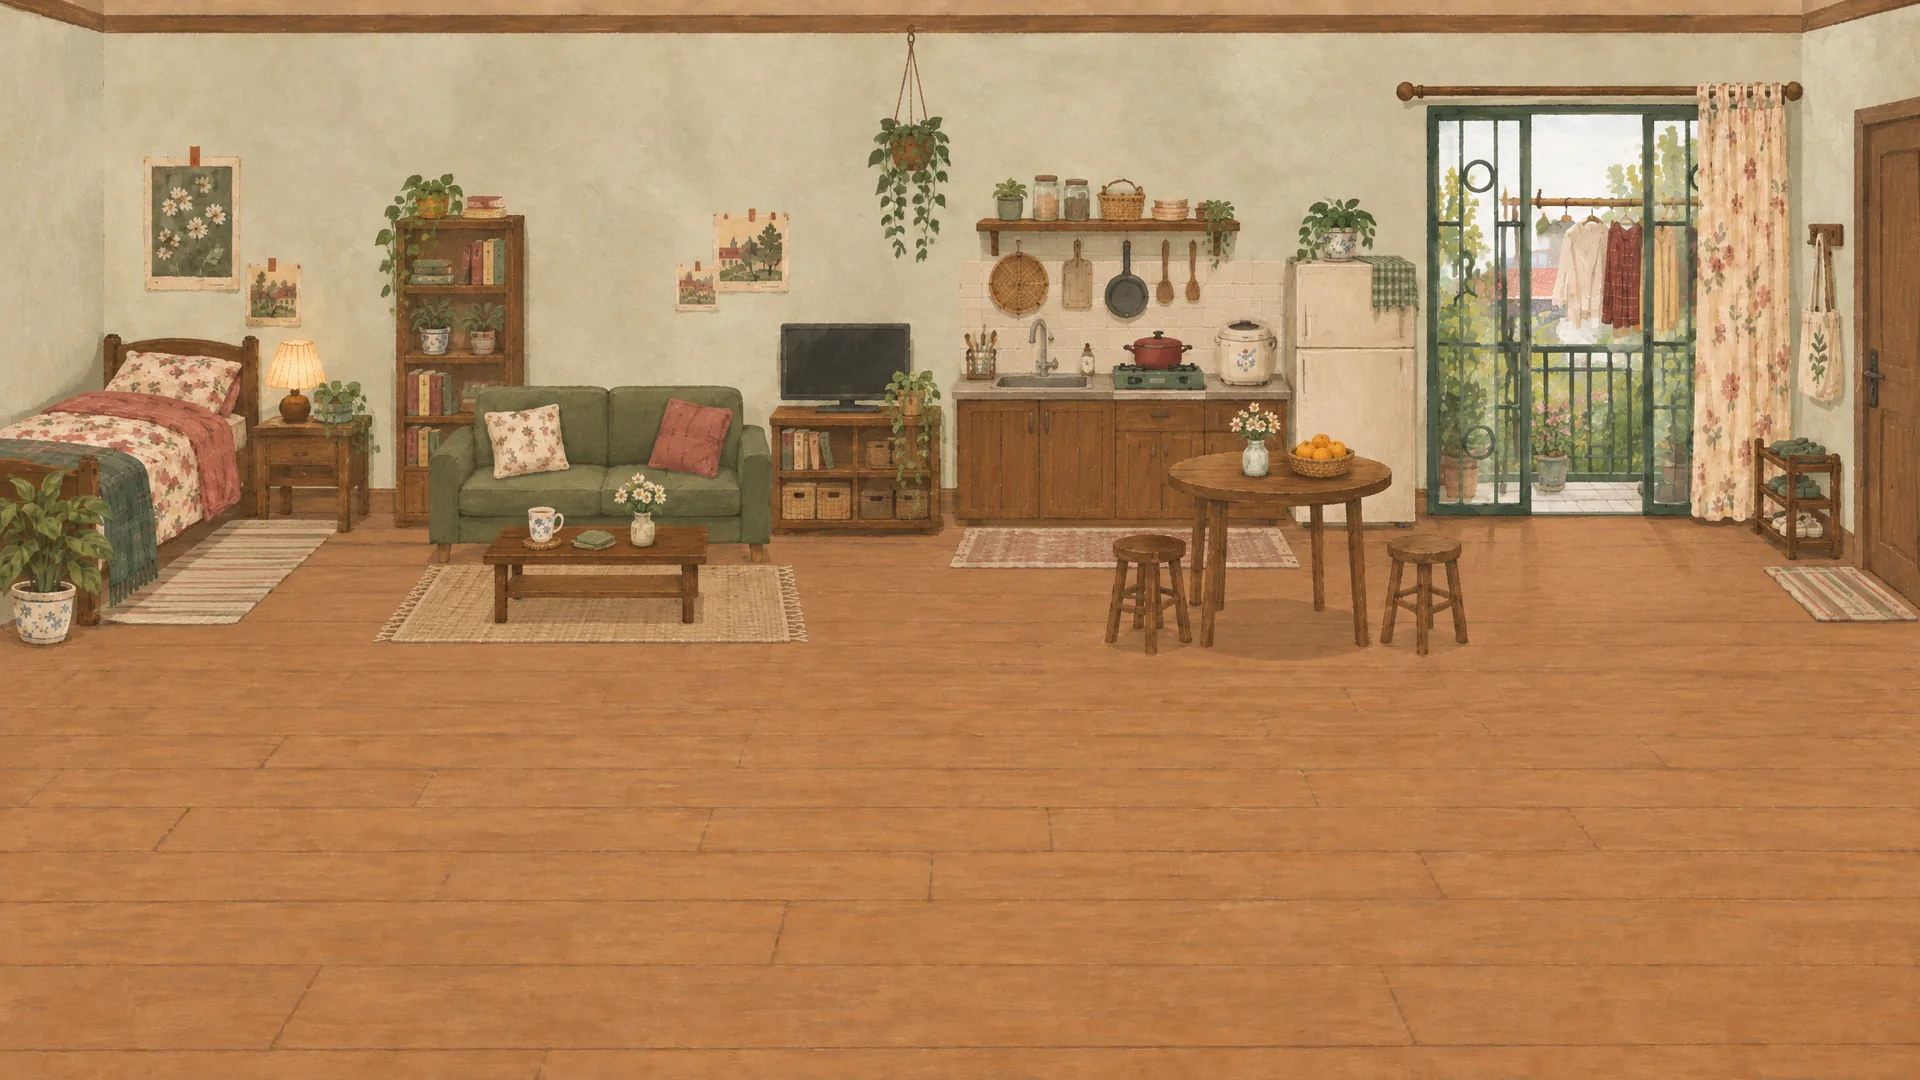
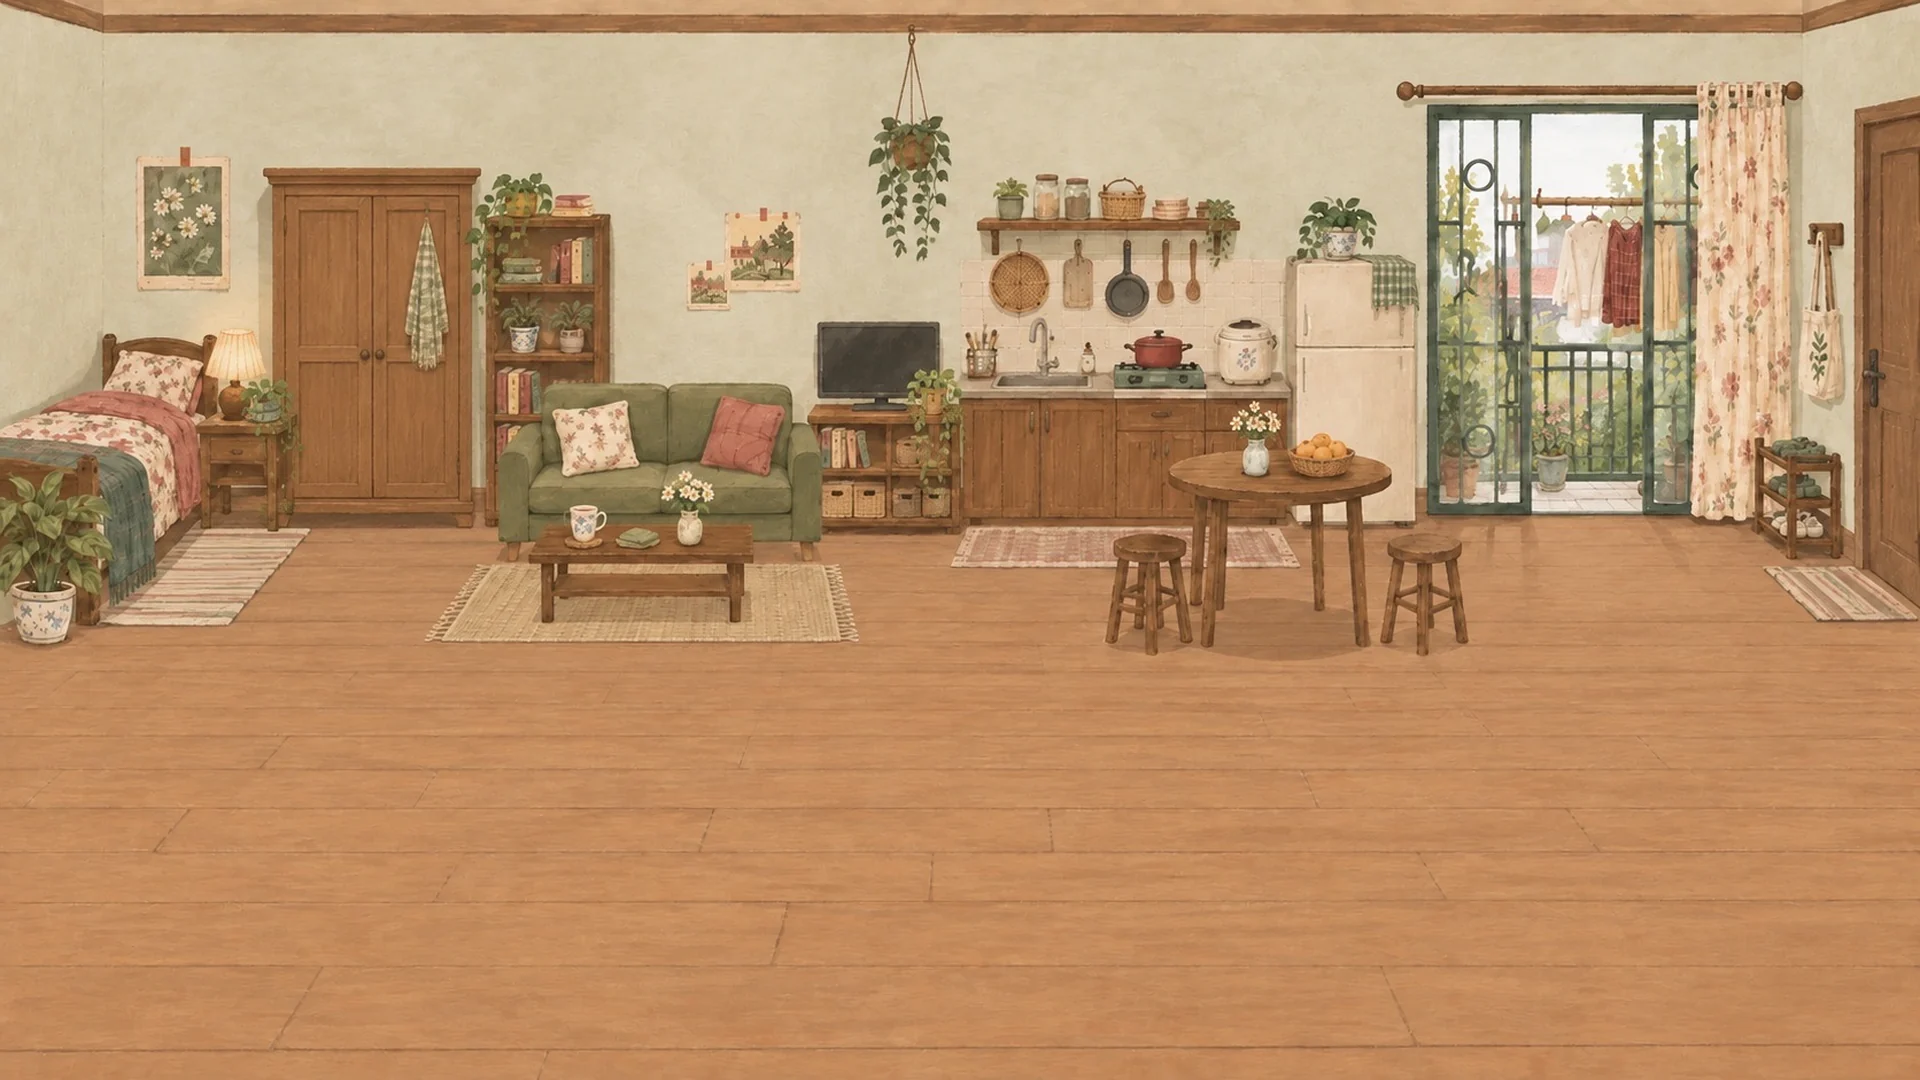
Nấu xong thì ăn và rửa bát liền; tủ đồ có cận cảnh; 3 ảnh phòng mới có tủ, đo lại vùng bấm
Claude-Session: https://claude.ai/code/session_01NNufcRGgGR466W2diK9eTR

diff --git a/src/activities/Eat.ts b/src/activities/Eat.ts
@@ -2,7 +2,7 @@ import { Gender } from "../core/GameState";
 import { t } from "../core/i18n";
 import { Dialogue } from "../ui/Dialogue";
 import { Dish, trayFile } from "./Cook";
-import { fadeTo, openCutscene, preloadImages, wait, revealHome } from "./Cutscene";
+import { Cutscene, fadeTo, openCutscene, preloadImages, revealHome, wait } from "./Cutscene";
 
 /**
  * Clip ăn cơm rồi rửa bát (cảnh bếp riêng), tự chạy, không có nút bỏ qua.
@@ -17,16 +17,11 @@ export function prepareEating(gender: Gender): void {
   preloadImages([eatFile(gender), ...[1, 2, 3].map((n) => washFile(gender, n))]);
 }
 
-export async function runEating(gender: Gender, dish: Dish, dialogue: Dialogue, showTray = true): Promise<() => Promise<void>> {
+/** Phần ăn + rửa bát, chạy tiếp trên một cảnh đang mở (sau khi nấu hoặc đứng riêng). Không tự tắt màn. */
+export async function playEating(cs: Cutscene, gender: Gender, dish: Dish, dialogue: Dialogue): Promise<void> {
+  const { show } = cs;
   prepareEating(gender);
-  preloadImages([trayFile(dish)]);
-  const { wrap, black, show } = openCutscene();
-
-  if (showTray) {
-    await show(trayFile(dish), 800);
-    await wait(900);
-  }
-  await show(eatFile(gender), showTray ? 1400 : 800);
+  await show(eatFile(gender), 1400);
   await dialogue.show(t(`dish.${dish.id}.eat`));
   await wait(1500);
   await show(washFile(gender, 1), 1400); // ra bồn, rửa bát
@@ -35,9 +30,15 @@ export async function runEating(gender: Gender, dish: Dish, dialogue: Dialogue, 
   await wait(1400);
   await show(washFile(gender, 3), 1200); // úp bát lên giá
   await wait(1600);
-  await fadeTo(black, 1, 800);
+}
 
-  return async () => {
-    await revealHome(wrap, black, 700);
-  };
+/** Ăn riêng (bấm bàn ăn khi chưa vừa nấu): bắt đầu từ khay món. */
+export async function runEating(gender: Gender, dish: Dish, dialogue: Dialogue): Promise<() => Promise<void>> {
+  preloadImages([trayFile(dish)]);
+  const cs = openCutscene();
+  await cs.show(trayFile(dish), 800);
+  await wait(900);
+  await playEating(cs, gender, dish, dialogue);
+  await fadeTo(cs.black, 1, 800);
+  return () => revealHome(cs.wrap, cs.black, 700);
 }

diff --git a/src/scenes/HomeScene.ts b/src/scenes/HomeScene.ts
@@ -8,8 +8,9 @@ import { t } from "../core/i18n";
 import { prepareWatering, runWatering } from "../activities/Watering";
 import { prepareSleep, runSleep } from "../activities/Sleep";
 import { runWatchTv } from "../activities/WatchTv";
-import { Dish, dishById, prepareCooking, randomDish, runCooking } from "../activities/Cook";
+import { prepareCooking, randomDish, runCooking } from "../activities/Cook";
 import { prepareEating, runEating } from "../activities/Eat";
+import { prepareWardrobe, runWardrobe } from "../activities/Wardrobe";
 import { Dialogue } from "../ui/Dialogue";
 import { ClockIcon } from "../ui/ClockIcon";
 
@@ -27,8 +28,6 @@ export class HomeScene extends Phaser.Scene {
   private dialogue!: Dialogue;
   private clock!: ClockIcon;
   private busy = false;
-  /** Món vừa nấu (để ăn đúng món đó); chưa nấu thì ăn món ngẫu nhiên. */
-  private lastDish: Dish | null = null;
 
   constructor() {
     super("Home");
@@ -41,6 +40,7 @@ export class HomeScene extends Phaser.Scene {
       prepareWatering(this.state.gender);
       prepareCooking(this.state.gender);
       prepareEating(this.state.gender);
+      prepareWardrobe(this.state.gender);
     }
     this.apt = aptData.apartments[String(this.state.apartment) as keyof typeof aptData.apartments];
 
@@ -109,16 +109,18 @@ export class HomeScene extends Phaser.Scene {
 
     if (h.action === "cook") {
       const dish = randomDish();
-      this.lastDish = dish;
       await this.doCutscene(h, () => runCooking(this.state.gender!, dish, this.dialogue));
       return;
     }
 
+    if (h.action === "wardrobe") {
+      await this.doCutscene(h, () => runWardrobe(this.state.gender!, this.dialogue));
+      return;
+    }
+
     if (h.action === "eat") {
-      const justCooked = this.lastDish !== null;
-      const dish = this.lastDish ?? dishById(randomDish().id);
-      await this.doCutscene(h, () => runEating(this.state.gender!, dish, this.dialogue, !justCooked));
-      this.lastDish = null;
+      const dish = randomDish();
+      await this.doCutscene(h, () => runEating(this.state.gender!, dish, this.dialogue));
       return;
     }
 

diff --git a/src/activities/Cook.ts b/src/activities/Cook.ts
@@ -1,13 +1,14 @@
 import { Gender } from "../core/GameState";
 import { t } from "../core/i18n";
 import { Dialogue } from "../ui/Dialogue";
-import { fadeTo, openCutscene, preloadImages, wait, revealHome } from "./Cutscene";
+import { fadeTo, openCutscene, preloadImages, revealHome, wait } from "./Cutscene";
+import { playEating, prepareEating } from "./Eat";
 
 /**
  * Clip nấu ăn (cảnh bếp riêng), tự chạy từ đầu đến cuối, không có nút bỏ qua.
  * Mỗi lần nấu ngẫu nhiên một món. Chuỗi tranh chuyển mờ chậm:
  *   1 chuẩn bị → 2 chiên/xào (món mặn) hoặc 3 nấu nước (món canh/mì/cháo) → khay món thành phẩm.
- * Chỉ một câu độc thoại ở đầu (nói tên món), còn lại để hình kể.
+ * Nấu xong thì ăn và rửa bát luôn (playEating), cùng một lượt. Chỉ một câu độc thoại lúc nấu, một câu lúc ăn.
  */
 
 export interface Dish {
@@ -44,6 +45,7 @@ export function prepareCooking(gender: Gender): void {
   preloadImages([1, 2, 3].map((n) => stepFile(gender, n)));
   preloadImages(OWN_FRAME.map((id) => `cook-${gender}-${id}.webp`));
   preloadImages(DISHES.map(trayFile));
+  prepareEating(gender);
 }
 
 export async function runCooking(gender: Gender, dish: Dish, dialogue: Dialogue): Promise<() => Promise<void>> {
@@ -56,6 +58,7 @@ export async function runCooking(gender: Gender, dish: Dish, dialogue: Dialogue)
   await wait(1200);
   await show(trayFile(dish), 1600);
   await wait(1800);
+  await playEating({ wrap, black, show }, gender, dish, dialogue); // nấu xong thì ăn rồi rửa bát luôn
   await fadeTo(black, 1, 800);
 
   // Màn đang đen hoàn toàn: bên gọi cập nhật ngày/giờ rồi gọi reveal() để mờ về căn hộ.

diff --git a/src/activities/Wardrobe.ts b/src/activities/Wardrobe.ts
@@ -1,0 +1,25 @@
+import { Gender } from "../core/GameState";
+import { t } from "../core/i18n";
+import { Dialogue } from "../ui/Dialogue";
+import { fadeTo, openCutscene, preloadImages, revealHome, wait } from "./Cutscene";
+
+/** Cận cảnh tủ đồ mở (cảnh riêng), tự chạy, không có nút bỏ qua. Chỉ một câu độc thoại. */
+
+const file = (g: Gender) => `wardrobe-${g}.webp`;
+
+export function prepareWardrobe(gender: Gender): void {
+  preloadImages([file(gender)]);
+}
+
+export async function runWardrobe(gender: Gender, dialogue: Dialogue): Promise<() => Promise<void>> {
+  prepareWardrobe(gender);
+  const { wrap, black, show } = openCutscene();
+
+  await show(file(gender), 1200);
+  await wait(500);
+  await dialogue.show(t("wardrobe.look"));
+  await wait(1200);
+  await fadeTo(black, 1, 800);
+
+  return () => revealHome(wrap, black, 700);
+}

diff --git a/src/activities/Cutscene.ts b/src/activities/Cutscene.ts
@@ -32,8 +32,14 @@ export function preloadImages(files: string[]): void {
   for (const f of files) new Image().src = `${BASE}/${f}`;
 }
 
+export interface Cutscene {
+  wrap: HTMLElement;
+  black: HTMLElement;
+  show: (file: string, fadeMs: number) => Promise<void>;
+}
+
 /** Tạo lớp phủ cảnh riêng kèm màn đen (dùng để làm mờ vào và ra). */
-export function openCutscene(): { wrap: HTMLElement; black: HTMLElement; show: (file: string, fadeMs: number) => Promise<void> } {
+export function openCutscene(): Cutscene {
   const ui = document.getElementById("ui")!;
   const wrap = layer("div", "cutscene");
   ui.appendChild(wrap);
